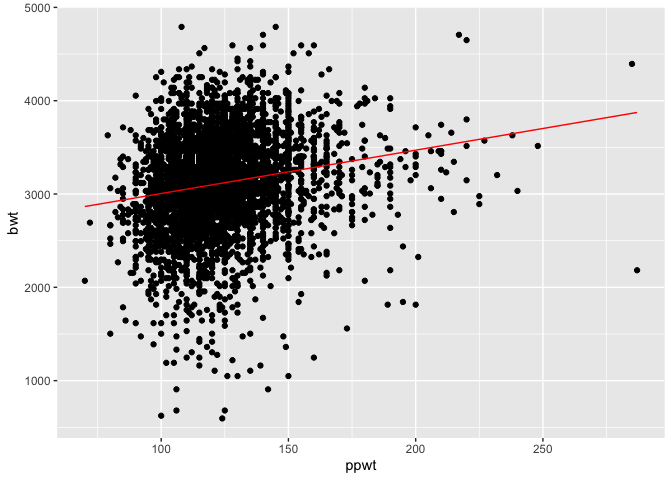
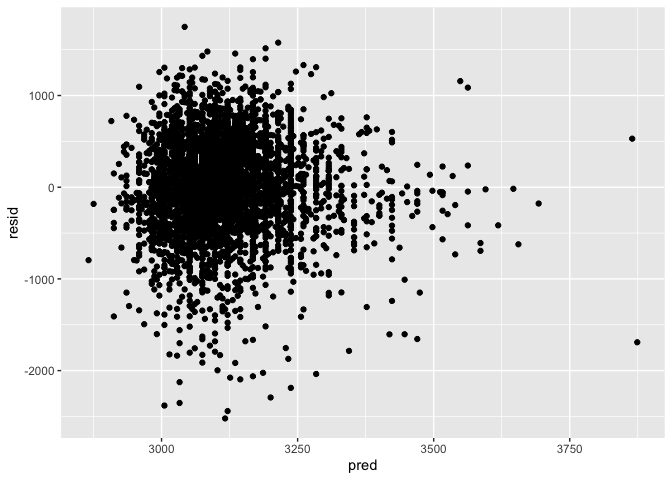
modified the figure in problem 3.

diff --git a/p8105_hw6_fz2328.md b/p8105_hw6_fz2328.md
@@ -162,9 +162,10 @@ Let’s look at the plot of model residuals against fitted values.
 
 ``` r
 birthweight %>% 
-  add_predictions(bwt_ppwt_linear) %>% 
-  ggplot(aes(x = ppwt, y = bwt)) + geom_point() + 
-  geom_line(aes(y = pred), color = "red")
+  add_predictions(bwt_ppwt_linear) %>%
+  add_residuals(bwt_ppwt_linear) %>% 
+  ggplot(aes(x = pred, y = resid)) + 
+  geom_point()
 ```
 
 ![](p8105_hw6_fz2328_files/figure-gfm/unnamed-chunk-12-1.png)<!-- -->
